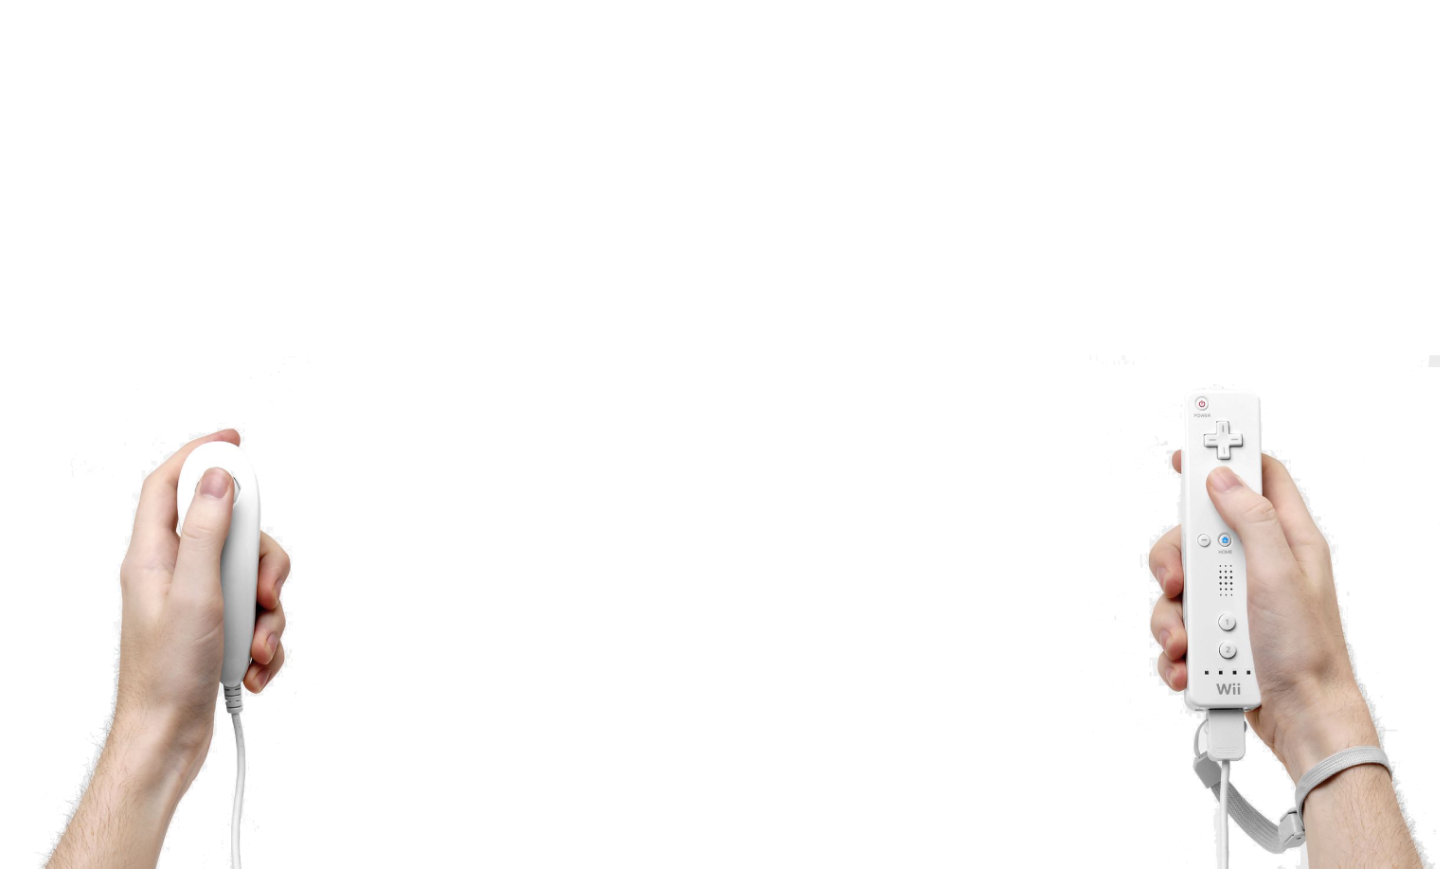
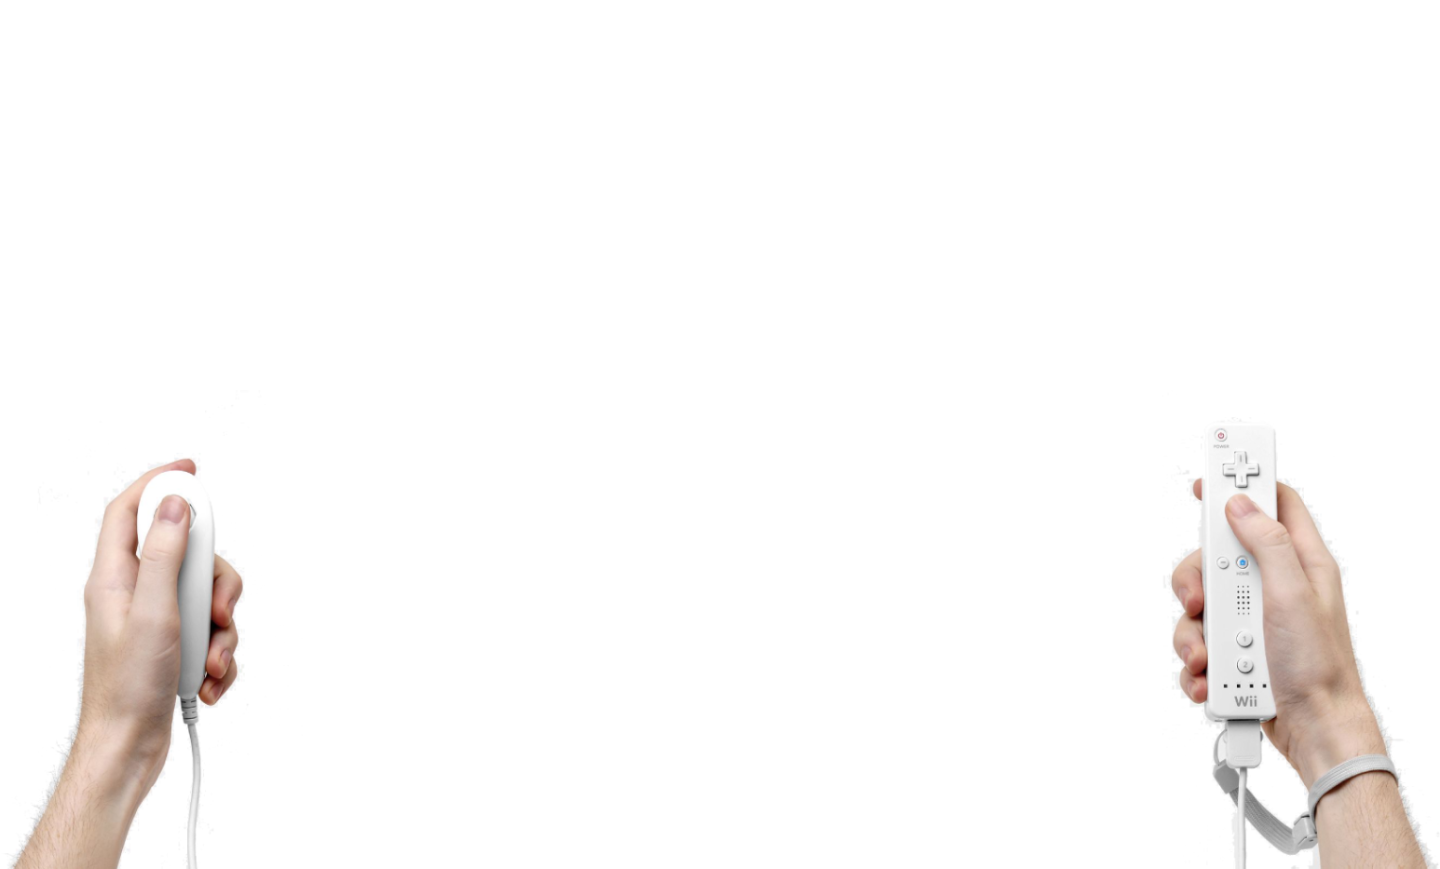
Add GameHard and SetScreenSize

Changed region(s): [[0.0, 0.4971, 0.2188, 1.0], [0.7812, 0.4971, 0.9688, 1.0], [0.9688, 0.901, 1.0, 1.0]]

diff --git a/src/data/maps/map3.js b/src/data/maps/map3.js
@@ -41,7 +41,14 @@ f20 fem fem fem fem fem fem fem fem fem fem fem fem fem fem fem fem fem fem fem
     }
   },
   gameHard: {
-    'background-image': 'url(' + require('@/assets/hardwares/7_wii.png') + '), url(' + require('@/assets/hardwares/7_wii_hands.png') + ')',
-    'background-position': 'center, center bottom'
+    'background-image': `url(${require('@/assets/hardwares/1_gbc.png')})`,
+    'background-size': '790px',
+    'background-position-y': 'calc(50% + 330px)'
+  },
+  screen: {
+    size: {
+      width: 400,
+      height: 360
+    }
   }
 }

diff --git a/src/data/maps/map7.js b/src/data/maps/map7.js
@@ -80,5 +80,16 @@ f20 fem fem fem fem fem fem fem fem fem fem fem fem fem fem fem fem fem fem fem
         backgroundSize: '30px 30px'
       }
     }
+  },
+  gameHard: {
+    'background-image': 'url(' + require('@/assets/hardwares/7_wii_hands.png') + '), url(' + require('@/assets/hardwares/7_wii.png') + ')',
+    'background-size': '1500px, 1182px',
+    'background-position': 'calc(50% + 10px) bottom, calc(50%) calc(50% + 31px)'
+  },
+  screen: {
+    size: {
+      width: 800,
+      height: 440
+    }
   }
 }

diff --git a/src/data/maps/map8.js b/src/data/maps/map8.js
@@ -90,5 +90,16 @@ f14 fem fem fem fem fem fem fem fem fem fem fem fem emp emp f05 fem fem fem fem
         backgroundSize: '30px 30px'
       }
     }
+  },
+  gameHard: {
+    'background-image': 'url(' + require('@/assets/hardwares/7_wii_hands.png') + '), url(' + require('@/assets/hardwares/7_wii.png') + ')',
+    'background-size': '1500px, 1182px',
+    'background-position': 'calc(50% + 10px) bottom, calc(50%) calc(50% + 31px)'
+  },
+  screen: {
+    size: {
+      width: 800,
+      height: 440
+    }
   }
 }

diff --git a/src/logics/moveMap.js b/src/logics/moveMap.js
@@ -11,6 +11,7 @@ export const moveToPreviousMap = async (state) => {
       }),
       gameHard: data.gameHard
     })
+    Object.assign(state.screen, data.screen)
   })
   Object.assign(state.things, {
     previousMap: { objects: [], backgrounds: [] },
@@ -38,6 +39,7 @@ export const moveToNextMap = async (state) => {
       },
       gameHard: data.gameHard
     })
+    Object.assign(state.screen, data.screen)
   })
   Object.assign(state.things, {
     previousMap: state.things.currentMap,

diff --git a/src/data/maps/map1.js b/src/data/maps/map1.js
@@ -47,6 +47,14 @@ f20 fem fem fem fem fem fem fem fem fem fem fem fem fem fem fem fem fem fem fem
     }
   },
   gameHard: {
-    'background-image': `url(${require('@/assets/hardwares/0_gb.png')})`
+    'background-image': `url(${require('@/assets/hardwares/0_gb.png')})`,
+    'background-size': '815px',
+    'background-position-y': 'calc(50% + 290px)'
+  },
+  screen: {
+    size: {
+      width: 402,
+      height: 360
+    }
   }
 }

diff --git a/src/data/maps/map10.js b/src/data/maps/map10.js
@@ -118,5 +118,16 @@ f20 fem fem fem fem fem fem fem fem fem fem fem fem fem fem fem fem fem fem fem
         backgroundSize: '30px 30px'
       }
     }
+  },
+  gameHard: {
+    'background-image': `url(${require('@/assets/hardwares/8_switch_body.png')})`,
+    'background-size': '1385px',
+    'background-position': 'calc(50%) calc(50% - 2px)'
+  },
+  screen: {
+    size: {
+      width: 786,
+      height: 440
+    }
   }
 }

diff --git a/src/data/maps/map9.js b/src/data/maps/map9.js
@@ -65,5 +65,16 @@ f20 fem fem fem fem fem fem fem fem fem fem fem fem fem fem fem fem fem fem fem
         backgroundSize: '30px 30px'
       }
     }
+  },
+  gameHard: {
+    'background-image': `url(${require('@/assets/hardwares/8_switch_body.png')})`,
+    'background-size': '1385px',
+    'background-position': 'calc(50%) calc(50% - 2px)'
+  },
+  screen: {
+    size: {
+      width: 786,
+      height: 440
+    }
   }
 }

diff --git a/src/data/maps/map4.js b/src/data/maps/map4.js
@@ -53,5 +53,16 @@ f20 fem fem fem fem fem fem fem fem fem fem fem fem fem fem fem fem fem fem fem
         backgroundSize: '30px 30px'
       }
     }
+  },
+  gameHard: {
+    'background-image': `url(${require('@/assets/hardwares/2_gba.png')})`,
+    'background-size': '1360px',
+    'background-position': 'calc(50% + 6px) calc(50% + 28px)'
+  },
+  screen: {
+    size: {
+      width: 540,
+      height: 360
+    }
   }
 }

diff --git a/src/data/maps/map5.js b/src/data/maps/map5.js
@@ -45,5 +45,16 @@ f20 fem fem fem fem fem fem fem fem fem fem fem fem fem fem fem fem fem fem fem
         backgroundSize: '30px 30px'
       }
     }
+  },
+  gameHard: {
+    'background-image': `url(${require('@/assets/hardwares/3_sp.png')})`,
+    'background-size': '775px',
+    'background-position': 'calc(50% - 10px) calc(50% + 395px)'
+  },
+  screen: {
+    size: {
+      width: 540,
+      height: 360
+    }
   }
 }

diff --git a/src/data/maps/map6.js b/src/data/maps/map6.js
@@ -61,5 +61,16 @@ f20 fem fem fem fem fem fem fem fem fem fem fem fem fem fem fem fem fem fem fem
         backgroundSize: '30px 30px'
       }
     }
+  },
+  gameHard: {
+    'background-image': `url(${require('@/assets/hardwares/5_dsi.png')})`,
+    'background-size': '1100px',
+    'background-position': 'calc(50%) calc(50% + 270px)'
+  },
+  screen: {
+    size: {
+      width: 480,
+      height: 360
+    }
   }
 }

diff --git a/src/data/maps/map2.js b/src/data/maps/map2.js
@@ -75,6 +75,14 @@ f20 fem fem fem fem fem fem fem fem fem fem fem fem fem fem fem fem fem fem fem
     }
   },
   gameHard: {
-    'background-color': '#555'
+    'background-image': `url(${require('@/assets/hardwares/0_gb.png')})`,
+    'background-size': '815px',
+    'background-position-y': 'calc(50% + 290px)'
+  },
+  screen: {
+    size: {
+      width: 400,
+      height: 360
+    }
   }
 }

diff --git a/src/components/GameHard.vue b/src/components/GameHard.vue
@@ -15,8 +15,7 @@ export default {
 
 <style lang="stylus">
 #game-hard-image
-  opacity: 0.5
-  transition: 1s ease;
+  transition: 0.5s ease;
   width: 100%
   height:100%
   position: fixed
@@ -24,5 +23,4 @@ export default {
   left: 0
   background-position: center
   background-repeat: no-repeat
-  background-size: 600px
 </style>
